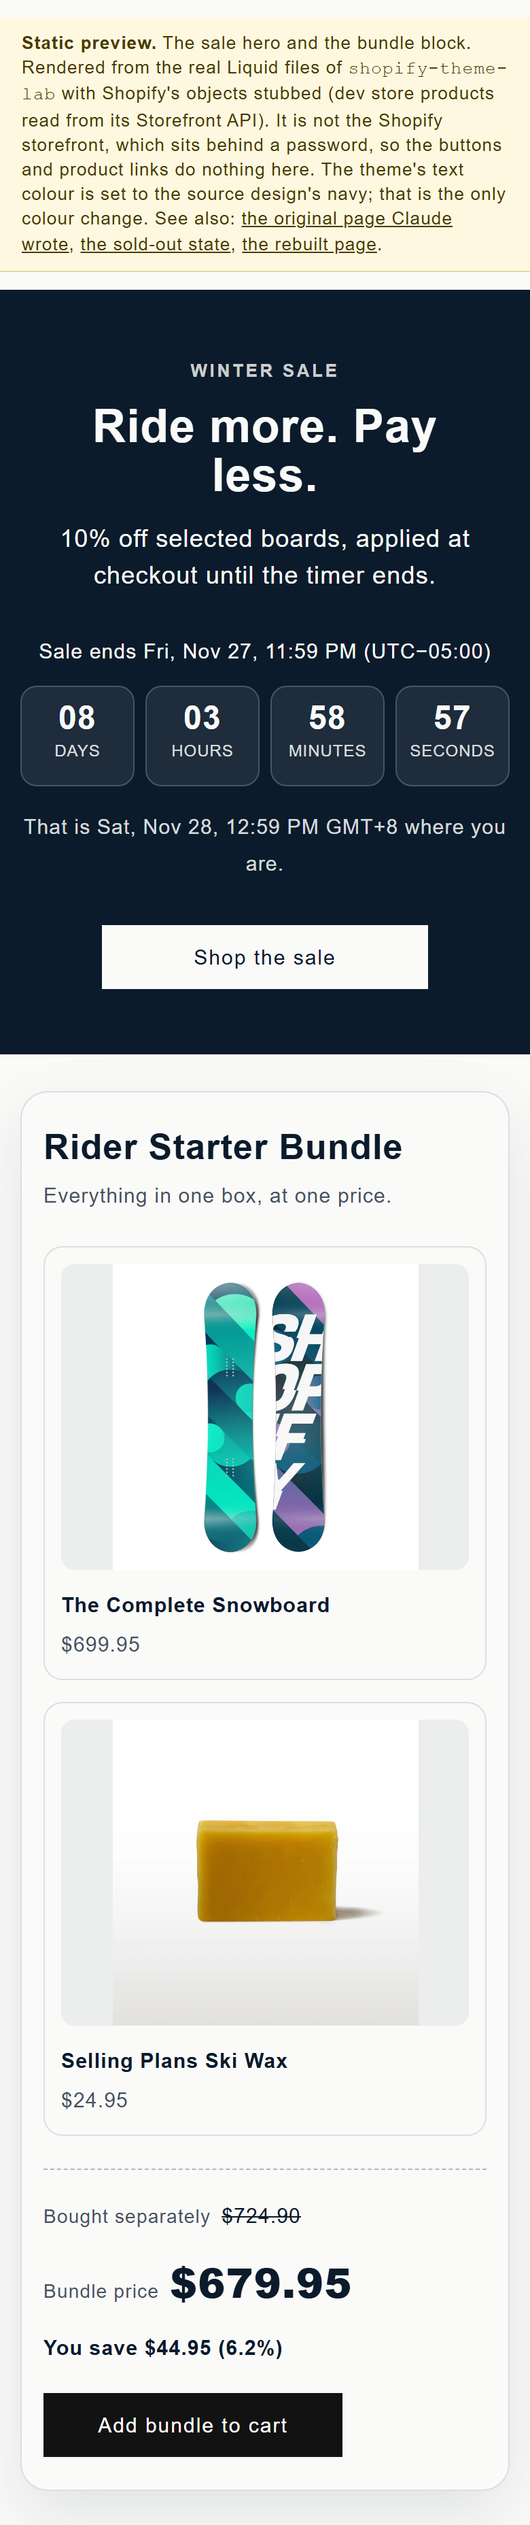
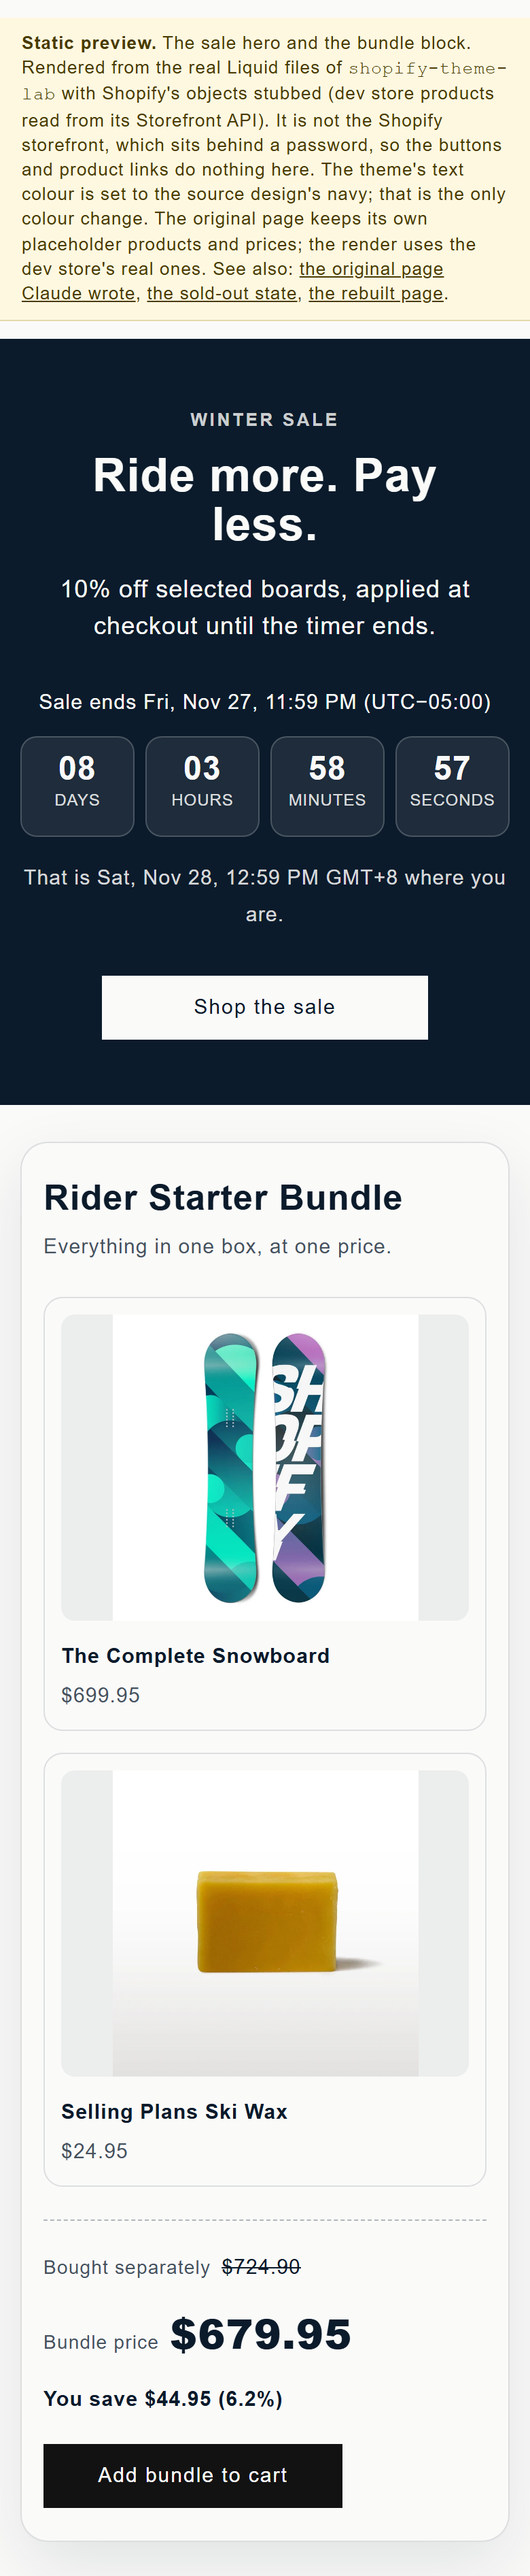
Correct the Liquid test count and make the preview build and its README honest about Dawn versions
Two reviewers counted 20 Liquid checks where the README said 18, so the runner now prints its own count and the figure is fixed in the README and the conversion notes. A clean-clone run showed the preview builder crashing on current Dawn, whose settings no longer use the flat colour names, so it now warns and falls back to a plain palette, and the README names Dawn v9.0.0, the install step and the token variables. The preview page also says the original page keeps its own placeholder prices.

diff --git a/preview/sold-out.html b/preview/sold-out.html
@@ -14,7 +14,7 @@ html{font-size:62.5%}body{margin:0;font-size:1.5rem;letter-spacing:.06rem;line-h
 .preview-note{font:13px/1.4 Helvetica,Arial,sans-serif;padding:10px 16px;background:#fff8e1;color:#4a3b00;border-bottom:1px solid #e6d9a8}
 .preview-note b{font-weight:700}.preview-note a{color:inherit}</style></head>
 <body class="gradient">
-<p class="preview-note"><b>Static preview.</b> The bundle block with the wax marked unavailable. Rendered from the real Liquid files of <code>shopify-theme-lab</code> with Shopify's objects stubbed (dev store products read from its Storefront API). It is not the Shopify storefront, which sits behind a password, so the buttons and product links do nothing here. The theme's text colour is set to the source design's navy; that is the only colour change. See also: <a href="source">the original page Claude wrote</a>, <a href="sold-out">the sold-out state</a>, <a href="./">the rebuilt page</a>.</p>
+<p class="preview-note"><b>Static preview.</b> The bundle block with the wax marked unavailable. Rendered from the real Liquid files of <code>shopify-theme-lab</code> with Shopify's objects stubbed (dev store products read from its Storefront API). It is not the Shopify storefront, which sits behind a password, so the buttons and product links do nothing here. The theme's text colour is set to the source design's navy; that is the only colour change. The original page keeps its own placeholder products and prices; the render uses the dev store's real ones. See also: <a href="source">the original page Claude wrote</a>, <a href="sold-out">the sold-out state</a>, <a href="./">the rebuilt page</a>.</p>
 <script>document.addEventListener('submit',function(e){e.preventDefault()});document.addEventListener('click',function(e){var a=e.target.closest&&e.target.closest('a[href]');if(a){var h=a.getAttribute('href');if(h==='#'||h.indexOf('/products')===0||h.indexOf('/collections')===0){e.preventDefault()}}})</script>
 <main>
 <link href="assets/section-bundle-contents.css" rel="stylesheet" type="text/css" media="all"><style data-shopify>#BundleContents-test1 {

diff --git a/preview/index.html b/preview/index.html
@@ -14,7 +14,7 @@ html{font-size:62.5%}body{margin:0;font-size:1.5rem;letter-spacing:.06rem;line-h
 .preview-note{font:13px/1.4 Helvetica,Arial,sans-serif;padding:10px 16px;background:#fff8e1;color:#4a3b00;border-bottom:1px solid #e6d9a8}
 .preview-note b{font-weight:700}.preview-note a{color:inherit}</style></head>
 <body class="gradient">
-<p class="preview-note"><b>Static preview.</b> The sale hero and the bundle block. Rendered from the real Liquid files of <code>shopify-theme-lab</code> with Shopify's objects stubbed (dev store products read from its Storefront API). It is not the Shopify storefront, which sits behind a password, so the buttons and product links do nothing here. The theme's text colour is set to the source design's navy; that is the only colour change. See also: <a href="source">the original page Claude wrote</a>, <a href="sold-out">the sold-out state</a>, <a href="./">the rebuilt page</a>.</p>
+<p class="preview-note"><b>Static preview.</b> The sale hero and the bundle block. Rendered from the real Liquid files of <code>shopify-theme-lab</code> with Shopify's objects stubbed (dev store products read from its Storefront API). It is not the Shopify storefront, which sits behind a password, so the buttons and product links do nothing here. The theme's text colour is set to the source design's navy; that is the only colour change. The original page keeps its own placeholder products and prices; the render uses the dev store's real ones. See also: <a href="source">the original page Claude wrote</a>, <a href="sold-out">the sold-out state</a>, <a href="./">the rebuilt page</a>.</p>
 <script>document.addEventListener('submit',function(e){e.preventDefault()});document.addEventListener('click',function(e){var a=e.target.closest&&e.target.closest('a[href]');if(a){var h=a.getAttribute('href');if(h==='#'||h.indexOf('/products')===0||h.indexOf('/collections')===0){e.preventDefault()}}})</script>
 <main>
 <link href="assets/section-sale-event-hero.css" rel="stylesheet" type="text/css" media="all">

diff --git a/README.md b/README.md
@@ -52,7 +52,7 @@ How it was checked (figures from runs on 2026-10-12):
 | `shopify theme check --output json`, filtered to the files added here | 0 offenses. |
 | `node tests/countdown.test.cjs`: Chromium with a controlled clock | 22 of 22. It caught a real bug of mine in the local-time line while it was being written. |
 | `node tests/countdown_mutants.cjs`: planted defects | 15 of 15 caught (timer leaks, ignored zone offset, wrong day length, no end state, HTML injection, accepted impossible dates, listener leaks, and others) |
-| `node tests/liquid.test.cjs`: the real section Liquid executed through LiquidJS with Shopify's objects stubbed | 18 of 18: saving maths, whole-number percent, sold-out part and sold-out bundle, no saving row when the bundle is not cheaper, the metafield instant reaching the script as the same moment in six render zones, collection priority, escaping, heading level, image priority, every string present in the locale file. |
+| `node tests/liquid.test.cjs`: the real section Liquid executed through LiquidJS with Shopify's objects stubbed | 20 of 20: saving maths, whole-number percent, sold-out part and sold-out bundle, no saving row when the bundle is not cheaper, the metafield instant reaching the script as the same moment in six render zones, collection priority, escaping, heading level, image priority, every string present in the locale file. |
 | `node tests/liquid_mutants.cjs`: planted defects in the Liquid | 16 of 16 caught |
 
 **What the Liquid tests are and are not.** `tests/render/shopify_liquid.cjs` is my own stand-in for the Shopify
@@ -71,7 +71,13 @@ GMT+8 where you are."), the saving reads "You save $44.95 (6.2%)" against the pa
 horizontal overflow at either width.
 
 The preview needs the stock Dawn files this repo overlays (`assets/base.css`, `config/settings_data.json`), so run it
-from a Dawn checkout with this repo's files copied over it; it stops without changing anything if they are missing.
+from a checkout of [Shopify's Dawn](https://github.com/Shopify/dawn) (MIT) with this repo's files copied over it, then
+`npm install` there. Use Dawn v9.0.0 or earlier: later Dawn replaced the flat colour settings this repo's sections and
+the preview builder read (`colors_text`, `colors_accent_1`, ...) with colour-scheme groups, and on such a checkout the
+builder warns and falls back to a plain palette (the sections themselves expect the older colour-scheme classes). It
+stops without changing anything if the two Dawn files are missing. It reads the dev store's public Storefront token from
+`SHOPIFY_STOREFRONT_TOKEN` (or a file named by `SHOPIFY_STOREFRONT_TOKEN_FILE`) and falls back to stub products
+without one; Node 18 or newer is needed (global `fetch`), Python 3 only for the seed script.
 Its buttons and product links are inert, its product images are hot-linked from the dev store's CDN, its countdown
 ends at the fixed instant 2026-11-28T04:59:00Z (after which it shows the ended state), and the theme's text colour is
 set to the source design's navy to show that a colour setting carries through. It is deployed to Cloudflare Pages

diff --git a/docs/CONVERSION.md b/docs/CONVERSION.md
@@ -21,7 +21,7 @@ Input: `design-source/winter-sale.html` (one HTML file). Output: `sections/sale-
 - `shopify theme check --output json`, filtered to the files added here: zero offenses.
 - `node tests/countdown.test.cjs`: 22 checks in Chromium with a controlled clock.
   `node tests/countdown_mutants.cjs`: 15 planted defects, all caught.
-- `node tests/liquid.test.cjs`: 18 checks that run the section Liquid itself through LiquidJS with Shopify's objects
+- `node tests/liquid.test.cjs`: 20 checks that run the section Liquid itself through LiquidJS with Shopify's objects
   stubbed. `node tests/liquid_mutants.cjs`: 16 planted defects, all caught.
 - Figures for these runs are in the README.
 
